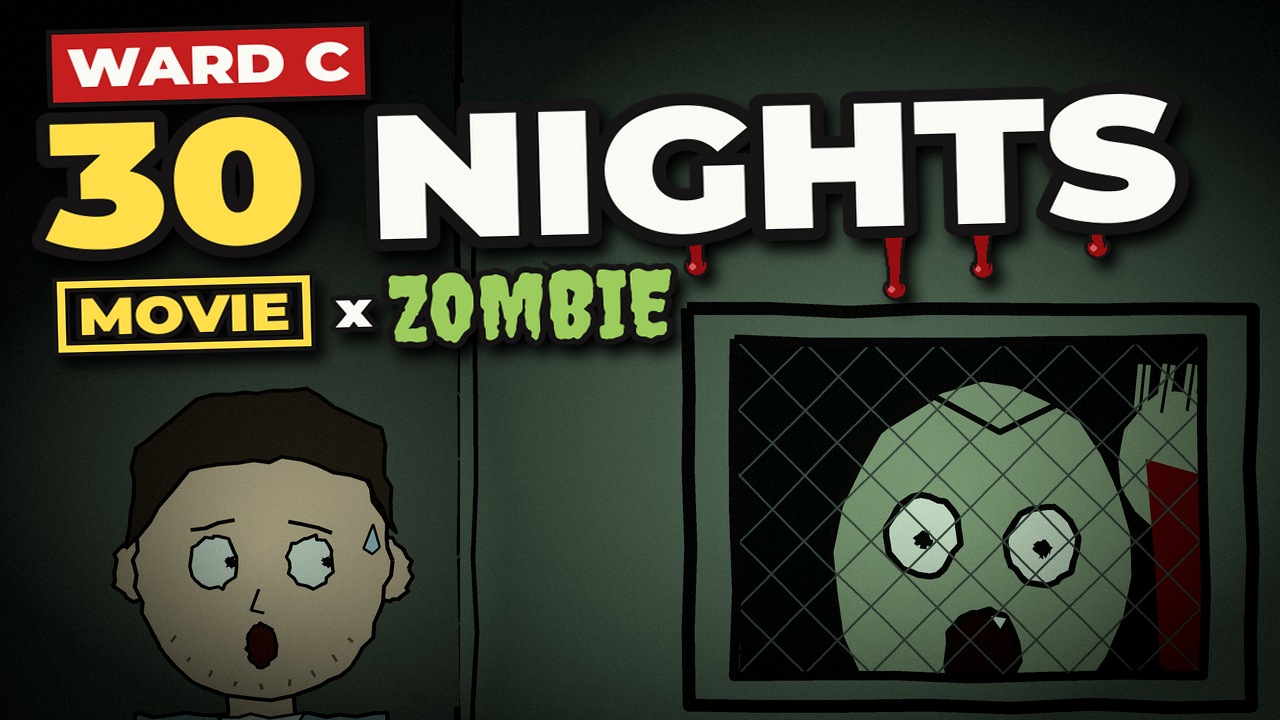
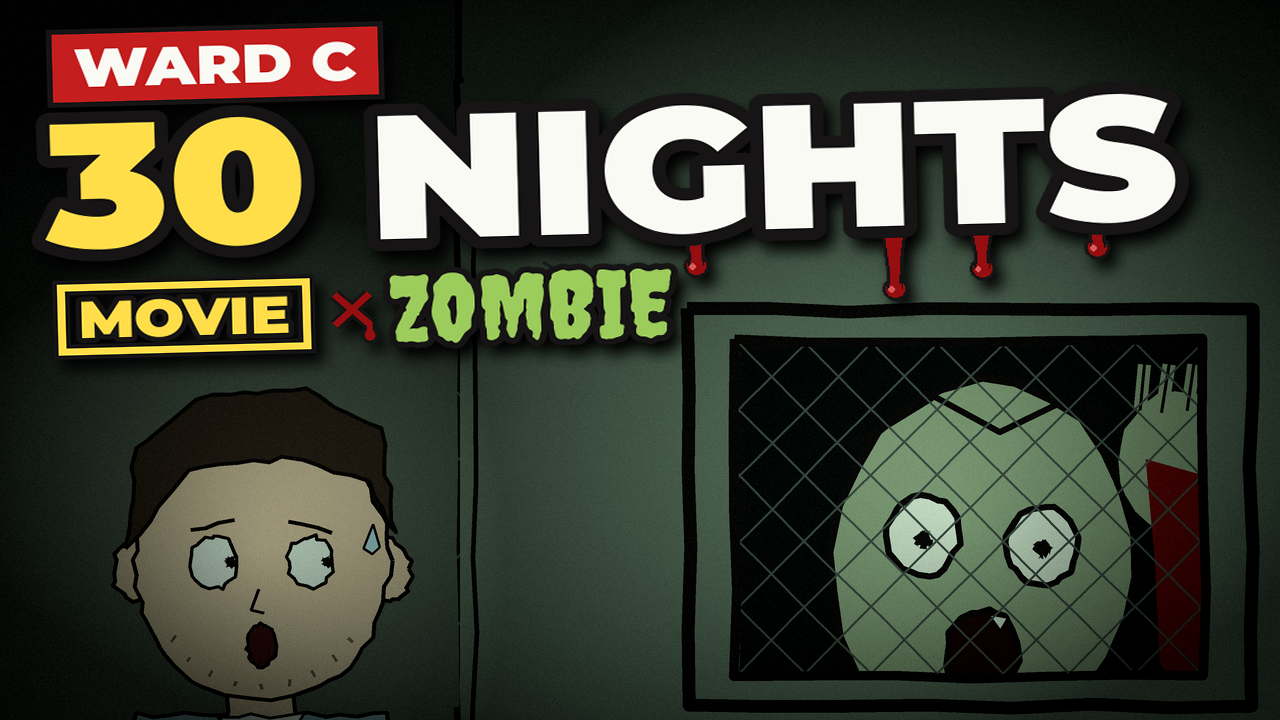
Miniatura EN: cienki krwawy „x”, szersza tabliczka WARD C, ramka MOVIE 3 px niżej
Claude-Session: https://claude.ai/code/session_011dRQgJiCfXuhrYiQLQ8rdu

Changed region(s): [[0.0312, 0.3667, 0.25, 0.5194], [0.0312, 0.0306, 0.3125, 0.1528], [0.25, 0.3667, 0.4375, 0.4889]]

diff --git a/output/zombie-psychiatryk/miniatura.py b/output/zombie-psychiatryk/miniatura.py
@@ -97,7 +97,8 @@ def font(size):
 
 
 def titles(img, big1, big2, side="l", tag="ODDZIAŁ C", width=500, sizes=(190, 138), tag_size=46, stretch=1.0,
-           inline=False, top=34, angle=3.0, sub=None, tag_first=False, badge=None, drip=None, after=None):
+           inline=False, top=34, angle=3.0, sub=None, tag_first=False, badge=None, drip=None, after=None,
+           tag_pad=18, badge_dy=0, blood_x=False):
     """Napisy: czerwona tabliczka z tytułem i duże słowa z grubym konturem, lekko przekrzywione.
     side — róg kadru: „l” lewy górny, „r” prawy górny; width — najszersze miejsce na napis (przed rozciągnięciem);
     sizes — wysokość pisma wierszy; stretch — poszerzenie liter w poziomie;
@@ -105,7 +106,9 @@ def titles(img, big1, big2, side="l", tag="ODDZIAŁ C", width=500, sizes=(190, 1
     sub — (tekst, wysokość pisma, kolor): dodatkowy duży wiersz pod spodem;
     tag_first — tabliczka nad napisem także przy inline;
     badge — (tekst, wysokość pisma): napis w samym żółtym obrysie prostokąta pod napisem głównym;
-    drip — słowo, z którego dołu lekko cieknie krew; after — (mały tekst, słowo krojem „zombie”, wysokość) za ramką."""
+    drip — słowo, z którego dołu lekko cieknie krew; after — (mały tekst, słowo krojem „zombie”, wysokość) za ramką;
+    tag_pad — margines tabliczki po bokach; badge_dy — przesunięcie samej ramki w dół;
+    blood_x — mały tekst „x” jako cienki krzyżyk krwi zamiast litery."""
     layer = Image.new("RGBA", (W, H), (0, 0, 0, 0))
     d = ImageDraw.Draw(layer)
     left = side == "l"
@@ -113,10 +116,10 @@ def titles(img, big1, big2, side="l", tag="ODDZIAŁ C", width=500, sizes=(190, 1
 
     def plate(y):
         f = font(tag_size)
-        w, h = d.textlength(tag, font=f) + 36, round(tag_size * 1.43)
+        w, h = d.textlength(tag, font=f) + 2 * tag_pad, round(tag_size * 1.43)
         x0 = x if left else x - w
         d.rectangle([x0, y, x0 + w, y + h], fill=RED, outline=R.INK, width=5)
-        d.text((x0 + 18, y + h / 2), tag, font=f, fill=WHITE, anchor="lm")
+        d.text((x0 + tag_pad, y + h / 2), tag, font=f, fill=WHITE, anchor="lm")
         return y + h + 14
 
     if tag and (tag_first or not inline):
@@ -151,16 +154,28 @@ def titles(img, big1, big2, side="l", tag="ODDZIAŁ C", width=500, sizes=(190, 1
         f = font(badge[1])
         w, h = d.textlength(badge[0], font=f) + 44, round(badge[1] * 1.5)
         x0, y0 = (x if left else x - w), y + 4
-        box = [x0, y0, x0 + w, y0 + h]
+        box = [x0, y0 + badge_dy, x0 + w, y0 + h + badge_dy]
         d.rectangle(box, outline=R.INK, width=15)  # czarny kontur pod żółtym obrysem, jak przy literach
         d.rectangle([box[0] + 4, box[1] + 4, box[2] - 4, box[3] - 4], outline=YELLOW, width=7)
-        d.text((x0 + w / 2, y0 + h / 2), badge[0], font=f, fill=YELLOW, anchor="mm", stroke_width=5, stroke_fill=R.INK)
+        d.text((x0 + w / 2, y0 + badge_dy + h / 2), badge[0], font=f, fill=YELLOW, anchor="mm", stroke_width=5,
+               stroke_fill=R.INK)
         if after:
             small_txt, zword, zsize = after
             xa, ym = x0 + w + 18, y0 + h / 2
             fs = font(round(badge[1] * 0.95))
-            d.text((xa, ym), small_txt, font=fs, fill=WHITE, anchor="lm", stroke_width=5, stroke_fill=R.INK)
-            xa += d.textlength(small_txt, font=fs) + 16
+            if blood_x:  # cienki krzyżyk w kolorze krwi spod „NIGHTS”, z jedną kroplą u dołu
+                a = 15
+                arms = [((xa, ym - a), (xa + 2 * a, ym + a)), ((xa + 2 * a, ym - a), (xa, ym + a))]
+                for p0, p1 in arms:
+                    d.line([p0, p1], fill=R.INK, width=13)
+                d.ellipse([xa + 2 * a - 7, ym + a + 3, xa + 2 * a + 7, ym + a + 19], fill=BLOOD, outline=R.INK, width=3)
+                d.line([(xa + 2 * a, ym + a - 2), (xa + 2 * a, ym + a + 8)], fill=BLOOD, width=5)
+                for p0, p1 in arms:
+                    d.line([p0, p1], fill=BLOOD, width=7)
+                xa += 2 * a + 18
+            else:
+                d.text((xa, ym), small_txt, font=fs, fill=WHITE, anchor="lm", stroke_width=5, stroke_fill=R.INK)
+                xa += d.textlength(small_txt, font=fs) + 16
             fz = ImageFont.truetype(str(ZFONT), zsize)
             d.text((xa, ym), zword, font=fz, fill=ZGREEN, anchor="lm", stroke_width=6, stroke_fill=R.INK)
     if stretch != 1.0:  # szersze litery: warstwa napisów rozciągnięta w poziomie od swojego rogu kadru
@@ -247,7 +262,7 @@ def izolatka(lang="pl"):
     if lang == "en":  # wersja angielska: „WARD C”, „30 NIGHTS”, pod spodem „MOVIE” w żółtym obrysie
         return titles(img, "30", "NIGHTS", tag="WARD C", width=1000, sizes=(204,), tag_size=54, stretch=1.14, inline=True,
                       top=30, angle=1.5, tag_first=True, badge=("MOVIE", 52),
-                      drip="NIGHTS", after=("x", "ZOMBIE", 92))
+                      drip="NIGHTS", after=("x", "ZOMBIE", 92), tag_pad=24, badge_dy=3, blood_x=True)
     return titles(img, "30", "NOCY", width=1000, sizes=(204,), tag_size=54, stretch=1.14, inline=True, top=30, angle=1.5,
                   tag_first=True)
 
